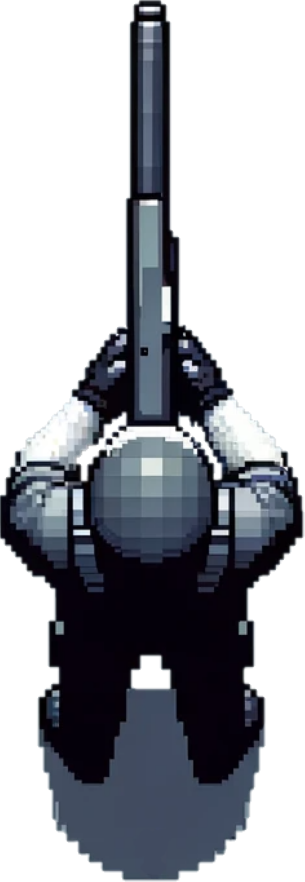
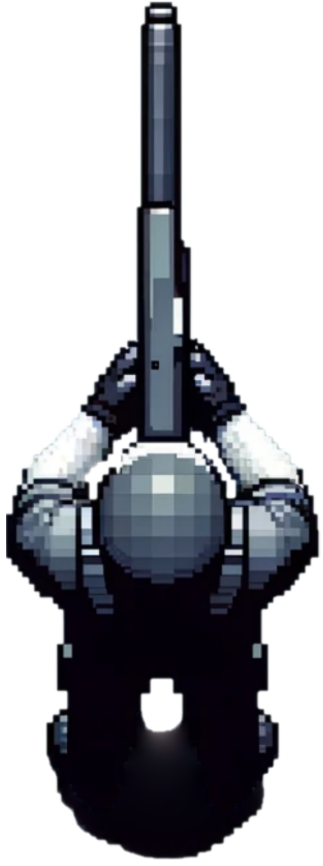
Made the gun work. Fires a bullet whenever mousePressed()

diff --git a/Sketch.java b/Sketch.java
@@ -1,5 +1,7 @@
 import processing.core.PApplet;
 import processing.core.PImage;
+import java.util.ArrayList;
+import java.util.LinkedList;
 
 public class Sketch extends PApplet {
   
@@ -7,6 +9,7 @@ public class Sketch extends PApplet {
   PImage imgBackground;
   PImage imgBackgroundHitBoxes;
   PImage imgPlayer;
+  PImage imgBullet;
 
   boolean playGame;
 
@@ -22,7 +25,9 @@ public class Sketch extends PApplet {
   float mapY;
   boolean isColliding;
   float playerRotation;
-
+  
+  ArrayList<Bullet> bullets = new ArrayList<Bullet>();
+  
   public void settings() {
     size(768, 768);
   }
@@ -32,6 +37,7 @@ public class Sketch extends PApplet {
     imgTitleImage = loadImage("TitleScreen.png");
     imgBackground = loadImage("Background.png");
     imgBackgroundHitBoxes = loadImage("BackgroundHitBoxes.png");
+    imgBullet = loadImage("Bullet.png");
 
     imgPlayer = loadImage("PlayerWeapon1.png");
 
@@ -39,11 +45,13 @@ public class Sketch extends PApplet {
     imgBackgroundHitBoxes.resize(imgBackgroundHitBoxes.width / 4 * 3, imgBackgroundHitBoxes.height / 4 * 3);
     imgPlayer.resize(imgPlayer.width / 4 * 3, imgPlayer.height / 4 * 3);
     imgPlayer.resize(imgPlayer.width / 5, imgPlayer.height / 5);
+    imgBullet.resize(imgBullet.width / 25, imgBullet.height / 25);
 
     playGame = false;
 
     playerXMap = -(imgBackground.width / 2 - imgPlayer.width / 2);
     playerYMap = -(imgBackground.height / 2 - imgPlayer.height / 2);  
+
   }
 
   public void draw() {
@@ -62,6 +70,26 @@ public class Sketch extends PApplet {
       text("playerWidth: " + imgPlayer.width + ", playerHeight: " + imgPlayer.height, width, height - 16);
       text("MapSizeX: " + imgBackground.width + ", MapSizeY: " + imgBackground.height, width, height - 32);
       text("ScreenSizeX: " + width + ", ScreenSizeY: " + height, width, height - 48);
+      
+      // Draw the bullets
+      for (int i = 0; i < bullets.size(); i++) {
+
+        // Move the bullet
+        bullets.get(i).x += 40 * cos(bullets.get(i).angle - PI / 2);
+        bullets.get(i).y += 40 * sin(bullets.get(i).angle - PI / 2);
+
+        // Draw the bullet
+        pushMatrix();
+        translate(bullets.get(i).x + imgPlayer.width / 2, bullets.get(i).y + imgPlayer.height * 0.75f);
+        rotate(bullets.get(i).angle);
+        image(imgBullet, -imgBullet.width / 2, -imgBullet.height / 2 - imgPlayer.height * 0.75f);
+        popMatrix();
+
+        // If the bullet is off the screen, remove it from the ArrayList
+        if (bullets.get(i).x < 0 || bullets.get(i).x > width || bullets.get(i).y < 0 || bullets.get(i).y > height) {
+          bullets.remove(i);
+        }
+      }
     }
   }
 
@@ -173,9 +201,9 @@ public class Sketch extends PApplet {
 
     // Draws the player with rotation
     pushMatrix();
-    translate(playerXScreen + imgPlayer.width / 2, playerYScreen + imgPlayer.height / 4 * 3);
+    translate(playerXScreen + imgPlayer.width / 2, playerYScreen + imgPlayer.height * 0.75f);
     rotate(playerRotation);
-    image(imgPlayer, -imgPlayer.width / 2, -imgPlayer.height / 4 * 3);
+    image(imgPlayer, -imgPlayer.width / 2, -imgPlayer.height);
     popMatrix();
     
     }
@@ -214,5 +242,10 @@ public class Sketch extends PApplet {
     else if (key == 'd') {
       playerSpeedX = 0;
     }
+  }
+  public void mousePressed() {
+
+    bullets.add(new Bullet(playerXScreen, playerYScreen, playerRotation, 0));
+
   }
 }

diff --git a/Bullet.java b/Bullet.java
@@ -1,0 +1,17 @@
+import processing.core.PApplet;
+import processing.core.PImage;
+
+public class Bullet {
+    
+    float x;
+    float y;
+    float angle;
+    int time;
+    
+    public Bullet(float x, float y, float angle, int time) {
+        this.x = x;
+        this.y = y;
+        this.angle = angle;
+        this.time = time;
+    }
+}
